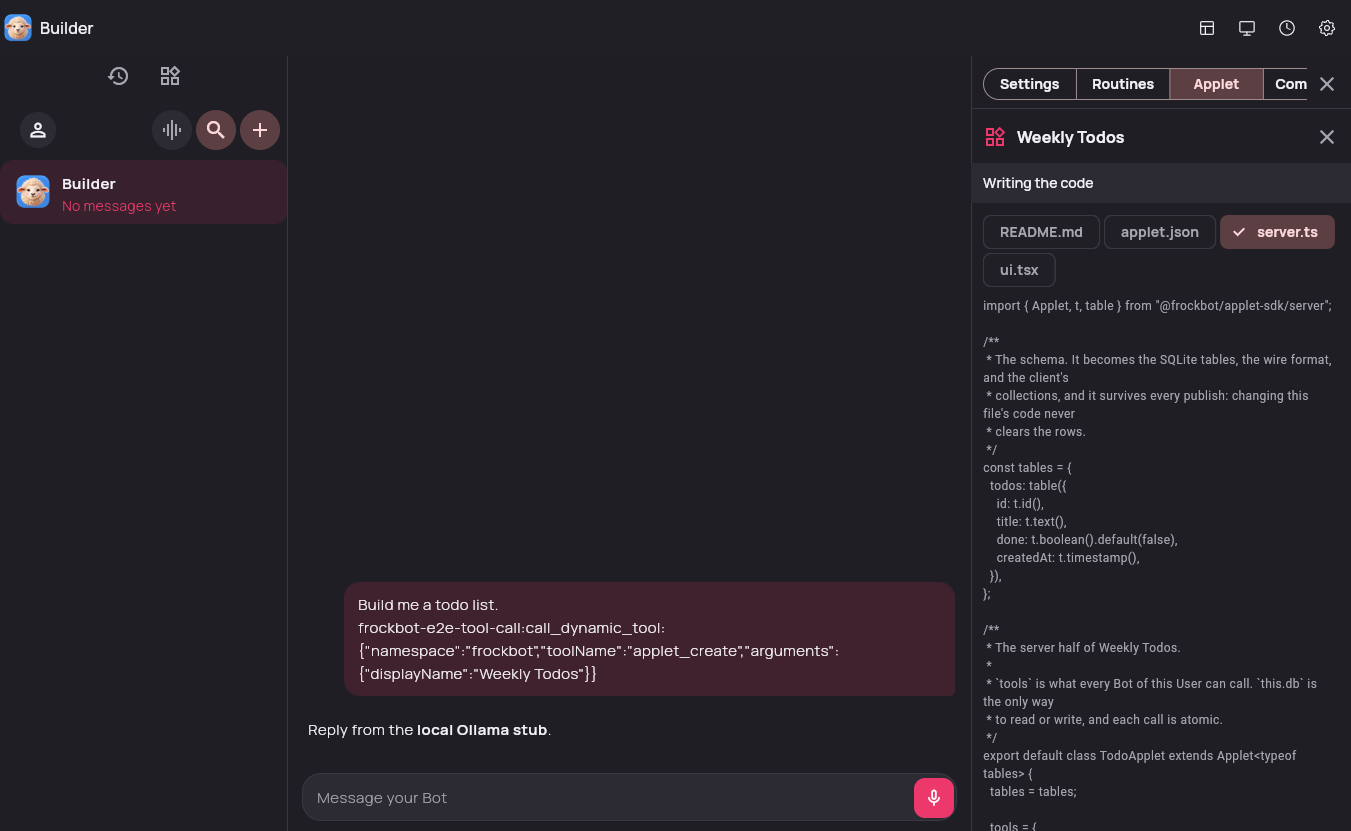
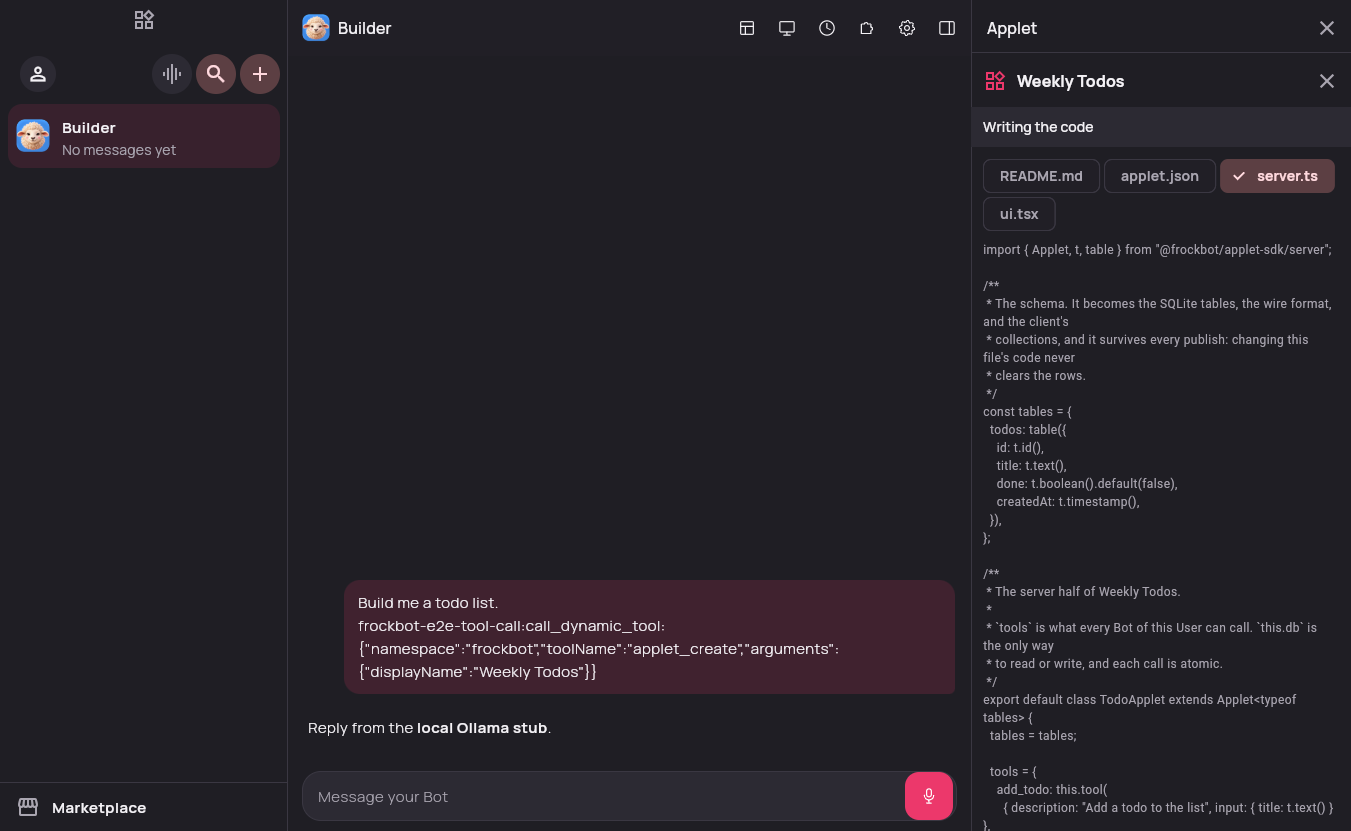
Point the unread tests at the focus rule
Two changes landed on main within minutes of each other and merged without
a textual conflict, but not without a break: the badge label moved out of
the sidebar and into the focus rule, while new tests were still calling it
where it used to live and building a sidebar without the field it gained.

Same assertions, asked of the rule that now owns the answer.

diff --git a/apps/native/test/activity_test.dart b/apps/native/test/activity_test.dart
@@ -4,7 +4,7 @@ import 'dart:convert';
 import 'package:flutter_test/flutter_test.dart';
 import 'package:frockbot_native/activity/controller.dart';
 import 'package:frockbot_native/protocol/client_wire.generated.dart' as wire;
-import 'package:frockbot_native/shell/sidebar.dart' show unreadBadgeLabel;
+import 'package:frockbot_native/shell/focus.dart' show sidebarUnreadFor;
 
 import 'settings_test.dart' show SettingsApi;
 import 'widget_test.dart' show MemoryStore;
@@ -205,7 +205,7 @@ void main() {
       final marking = controller.mark('alpha', read: true);
       expect(controller.unread['alpha']!.count, 0);
       expect(controller.unread['alpha']!.unread, isFalse);
-      expect(unreadBadgeLabel(controller.unread['alpha']), isNull);
+      expect(sidebarUnreadFor(controller.unread['alpha'], focused: false).label, isNull);
 
       receipts.complete();
       await marking;
@@ -233,7 +233,7 @@ void main() {
         fromMessageId: 'run-1:send:0',
       );
       expect(controller.unread['alpha']!.manuallyUnread, isTrue);
-      expect(unreadBadgeLabel(controller.unread['alpha']), '•');
+      expect(sidebarUnreadFor(controller.unread['alpha'], focused: false).label, '•');
 
       receipts.complete();
       await marking;
@@ -254,7 +254,7 @@ void main() {
       await controller.mark('alpha', read: true);
       expect(controller.unread['alpha']!.count, 2);
       expect(controller.unread['alpha']!.unread, isTrue);
-      expect(unreadBadgeLabel(controller.unread['alpha']), '2');
+      expect(sidebarUnreadFor(controller.unread['alpha'], focused: false).label, '2');
       // What the shell puts in its SnackBar when the mark comes back refused.
       expect(controller.error, isNotNull);
       controller.dispose();

diff --git a/apps/native/test/bot_settings_test.dart b/apps/native/test/bot_settings_test.dart
@@ -520,6 +520,7 @@ class _ShellState extends State<_Shell> {
               unread: const {},
               archived: const {},
               activeBotId: 'alpha',
+              focusedBotId: null,
               workingBotId: null,
               loaded: true,
               showHidden: false,
